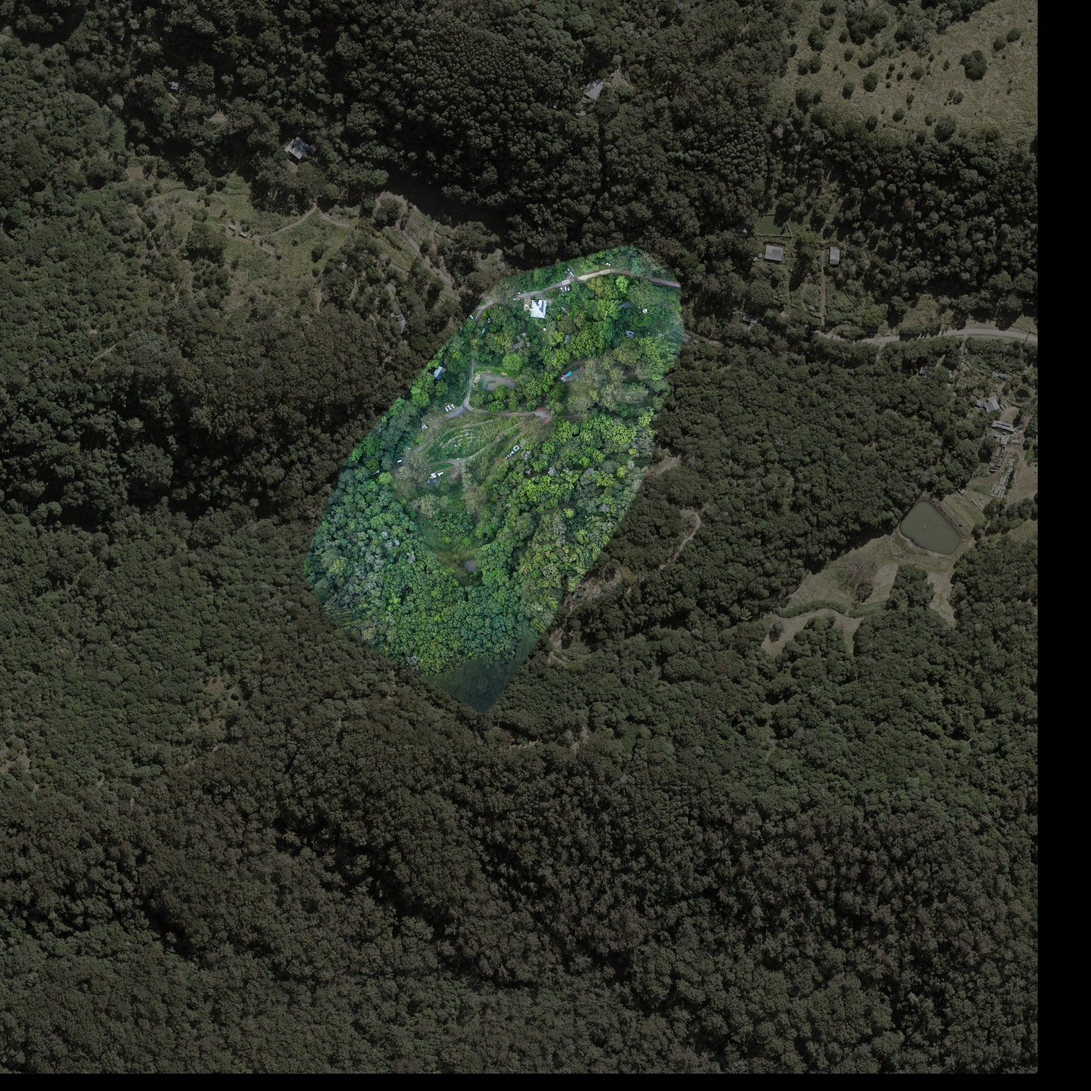
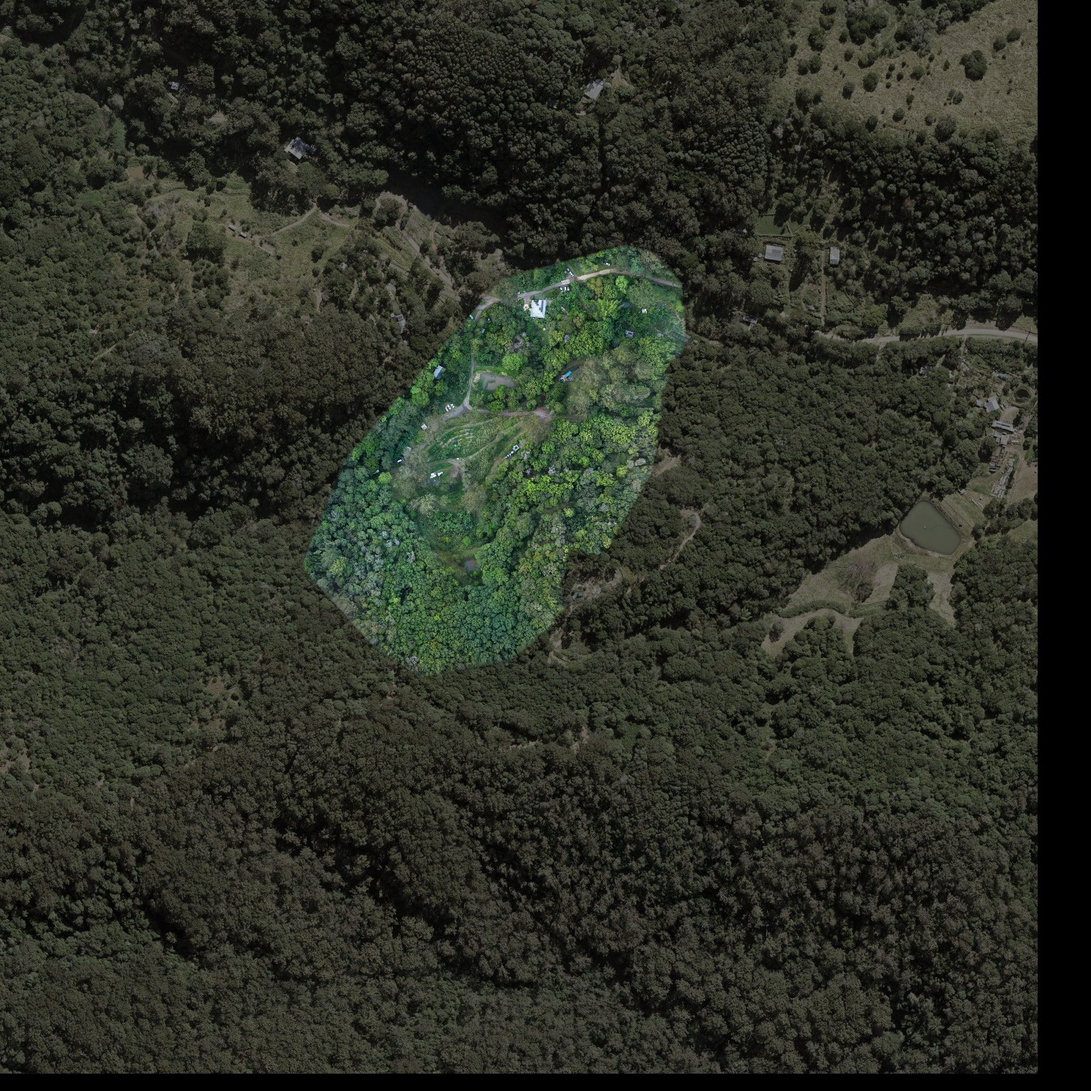
Trial v65: Noosa full 270-photo drone stitch and drone tree heights (canopy grid over LiDAR 2022 ground)
Claude-Session: https://claude.ai/code/session_01QnDMw4PyfKw545DtnAuurF

Changed region(s): [[0.2812, 0.2188, 0.625, 0.6562]]

diff --git a/map/index.html b/map/index.html
@@ -399,7 +399,7 @@ const SITES=[
  {id:'bellbunya',name:'Bellbunya',group:'Group 2',area:'Belli Park, Qld',ready:true,history:true,grass:true,cgrid:'Queensland LiDAR 2022 (Sunshine Coast and Noosa surveys)'},
  {id:'bright-tree',name:'Bright Tree',group:'Group 3',area:'Diamond Valley, Qld',base:'',ready:true,canopy:true,history:true,niche:true,sitefind:true},
  {id:'willow-vale-team',name:'Willow Vale',group:'Group 4',area:'Bowman, NSW · the group presentation (21 Oct)',base:'sites/willow-vale/',ready:true,history:true,grass:true,cgrid:'NSW LiDAR 2018 (Upper Manning) plus regrowth to 2026 from Sentinel-2',s2:'31 Aug 2026',s2wet:'14 Apr 2026',s2old:'17 Mar 2018',seasonal:[[930,1065,1140,1135]]},
- {id:'noosa-forest-retreat',name:'Noosa Forest Retreat',group:'PDC host',area:'Kin Kin, Qld',ready:true,history:true},
+ {id:'noosa-forest-retreat',name:'Noosa Forest Retreat',group:'PDC host',area:'Kin Kin, Qld',ready:true,history:true,cgrid:'our drone survey of 26 Oct 2026 (OpenDroneMap surface) over the Queensland LiDAR 2022 ground; flown area only'},
  {id:'nac',name:'NAC',group:'Small block',area:'North Arm Cove, NSW',ready:true,small:true,history:true,aerialDate:'1 Sep 2021, 7 cm'},
  {id:'annwn',name:'Annwn',group:'Small block',area:'Capalaba, Qld · 770 m² suburban block',ready:true,small:true},
  {id:'regenify',name:'Regenify',group:'Extra',area:'Koonyum Range, NSW',ready:true,history:true,aerialDate:'22 Apr 2015, 10 cm'},

diff --git a/CHANGELOG.md b/CHANGELOG.md
@@ -4,6 +4,12 @@ Newest first. Version numbers match the published map and the git tags (`v77`, `
 
 **How this was made.** From v77 on, entries are written as each change is published. Earlier entries were rebuilt by comparing the saved copies of the map code: tools, layers, panels, buttons and drawing types added or removed between each pair. The code behind each entry is exact. Where no copy was saved for every version, the entry covers a range (for example v66–v68), meaning the change landed somewhere in that range. Small fixes and wording tweaks don't show up in that comparison, so they're only listed where known. Times are Brisbane time.
 
+## Trial v65 (10 Nov 2026)
+### Changed
+- Noosa Forest Retreat: the 26 Oct drone map is now the full stitch of all 270 photos (was the half-photo test), still at 15 cm and lined up to the 2022 photo within about 1–2 m.
+### Added
+- Noosa Forest Retreat: tree heights from the drone (drone surface minus the LiDAR 2022 ground) over the 8.5 ha flown, so the light planner's tree shade, the 3D trees and the tree-zone 3D print now work there. Source shown as "drone survey 26 Oct 2026 over LiDAR 2022 ground".
+
 ## Trial v64 (10 Nov 2026)
 ### Added
 - Bright Tree, "Siting, views and carbon" under Terrain analysis (Queensland LiDAR 2022):
@@ -98,6 +104,7 @@ per-group mapping-only beta maps (docs/beta-maps.md) from `beta/group-maps`. The
 
 | Version | Saved | Branch | What |
 |---|---|---|---|
+| Trial v65 | 10 Nov 2026 | Noosa full drone stitch and drone tree heights |
 | Trial v64 | 10 Nov 2026 | Bright Tree cabin site finder, views, privacy and carbon layers |
 | Trial v63 | 10 Nov 2026 | NSW history photos for Mangiri and NAC; Noosa drone flight stitched at 15 cm |
 | Trial v62 | 8 Nov 2026 | Print: choose the colour of each part (e.g. orange buildings) |
